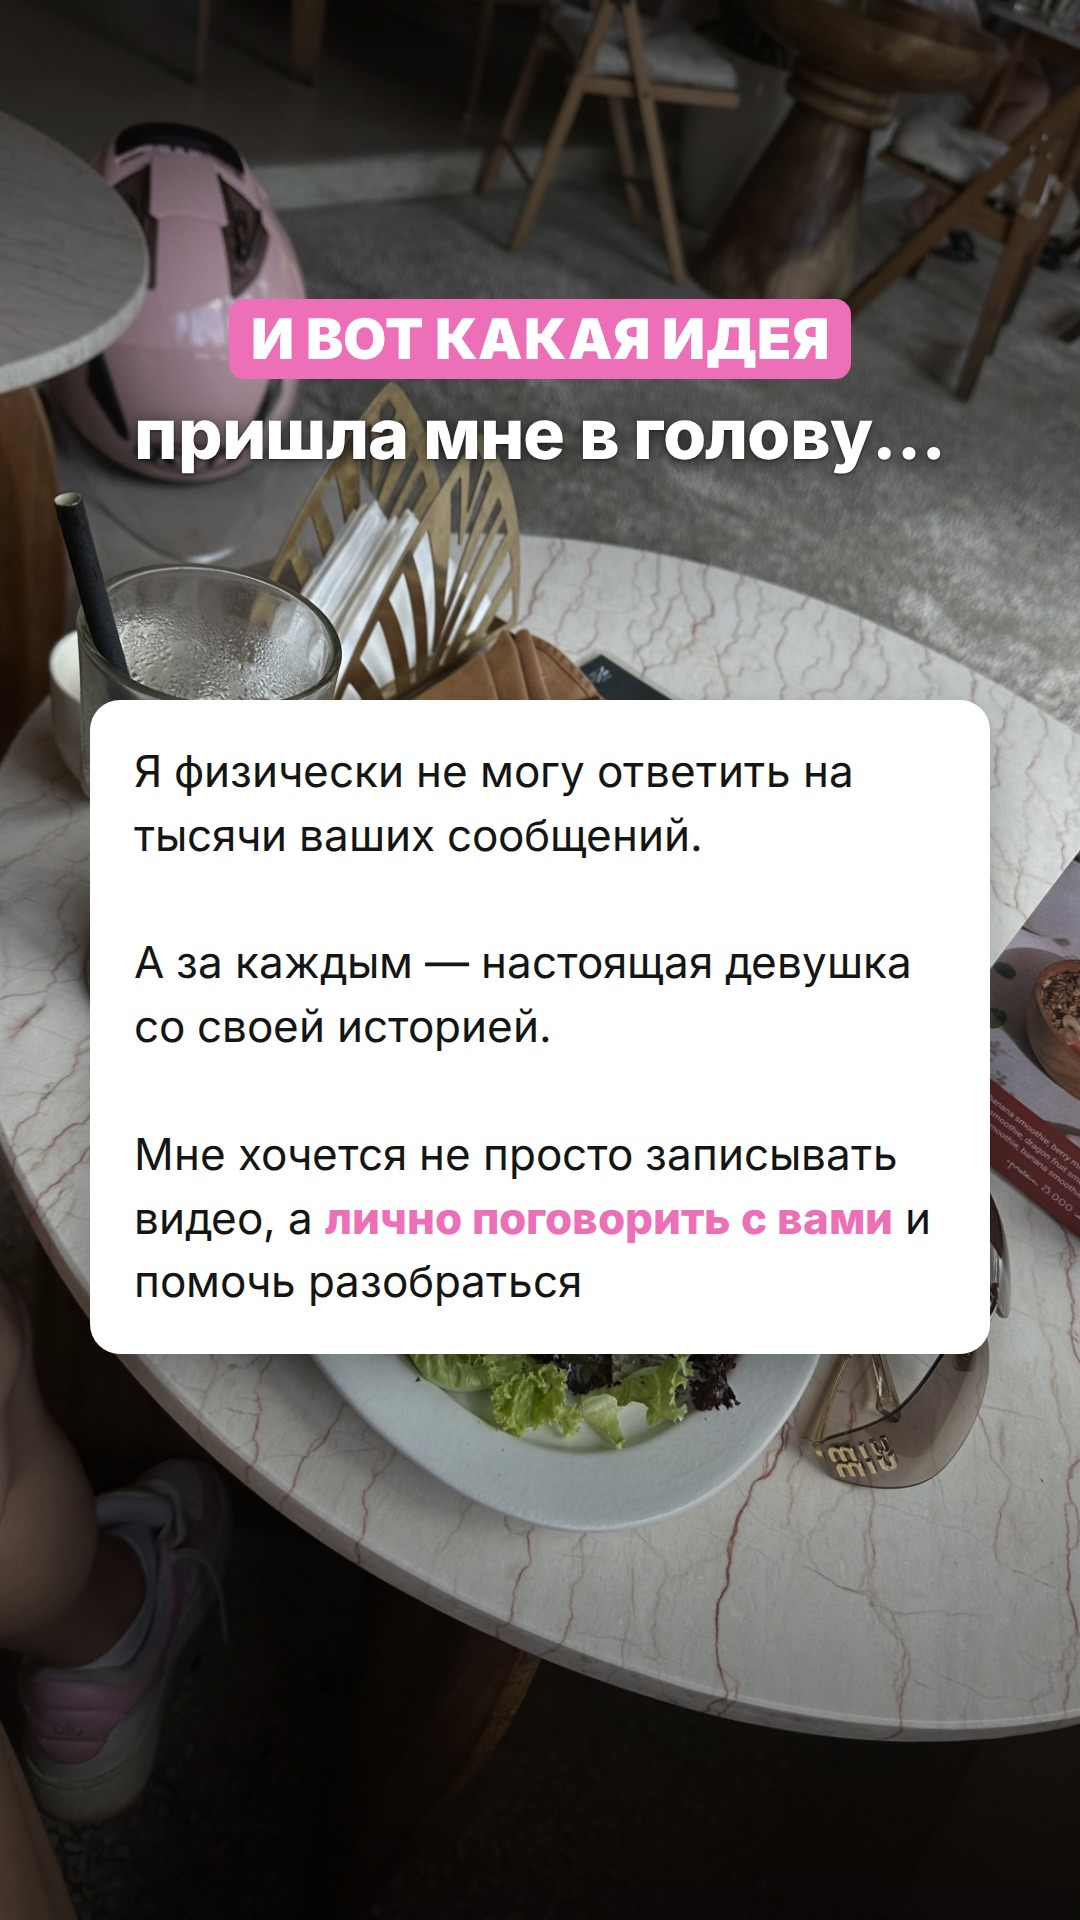
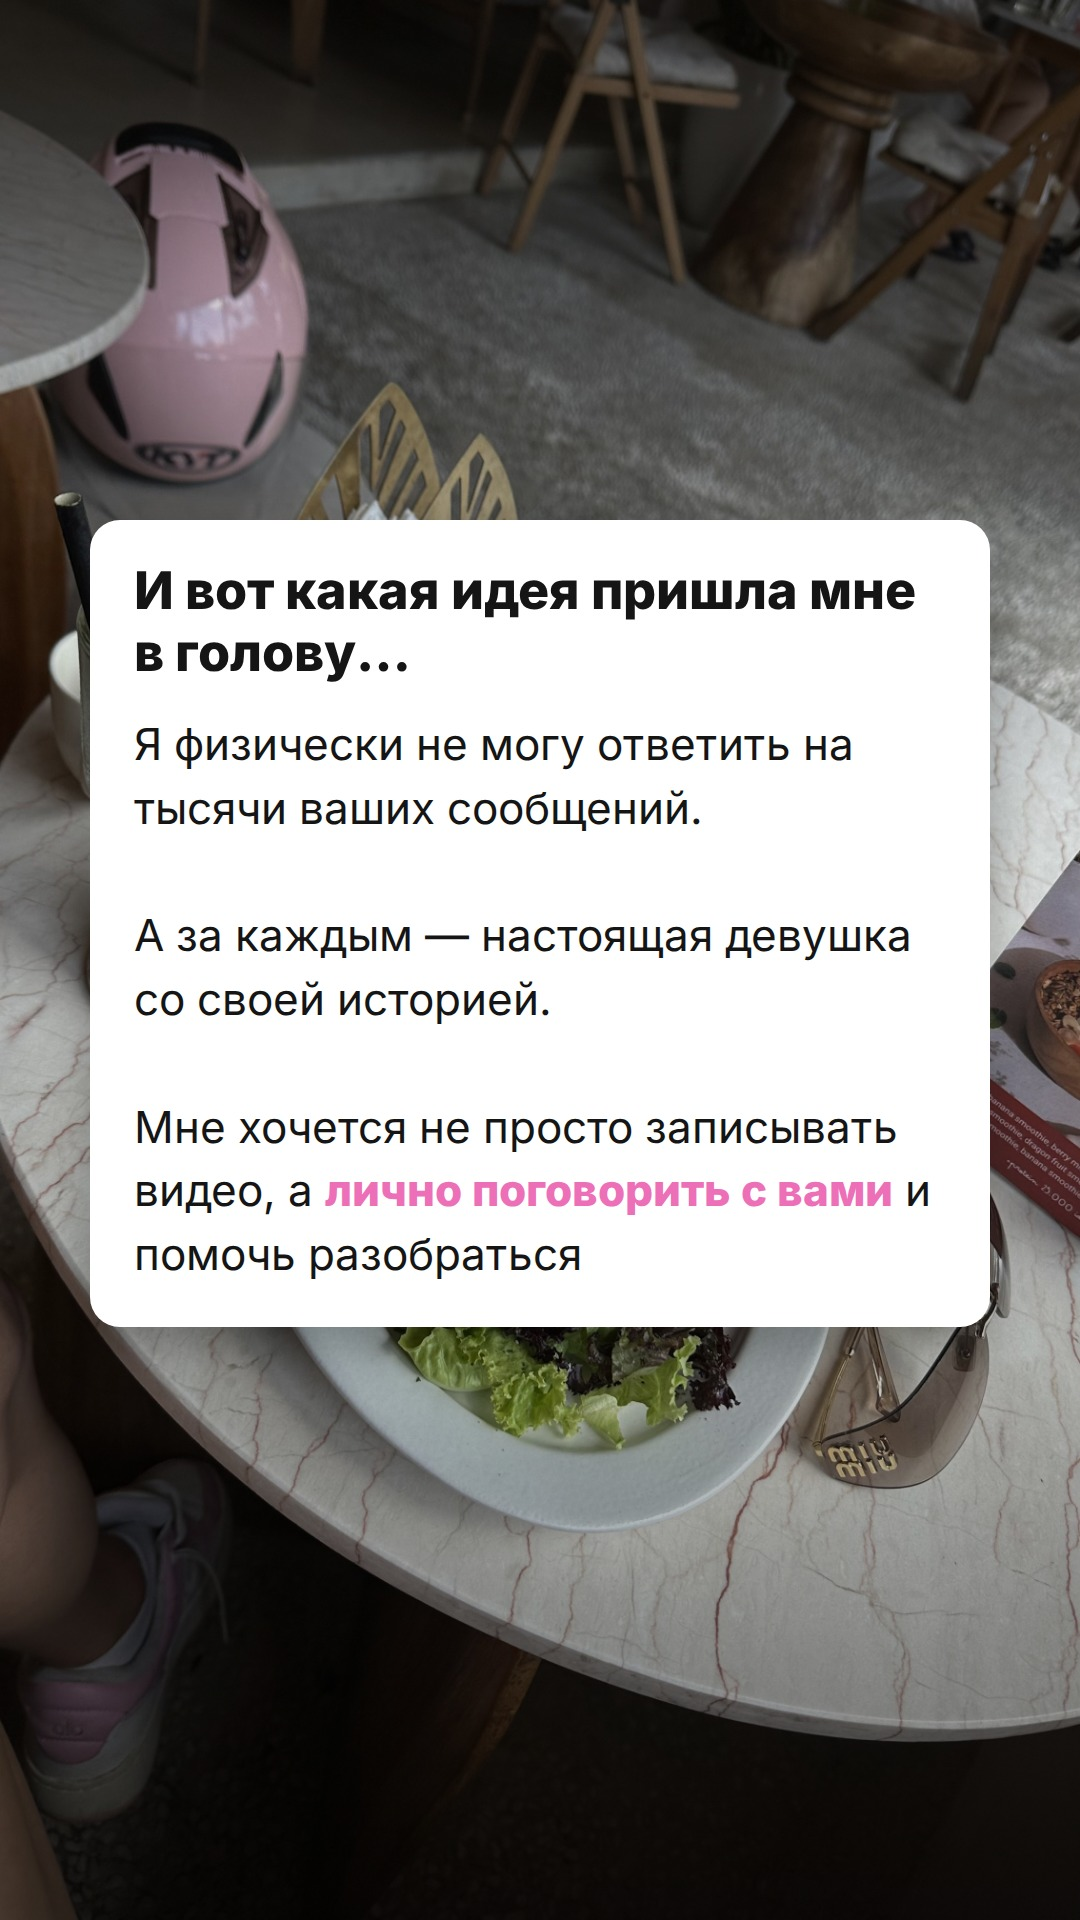
Сторис 7, 8, 11: отзывы выше, сообщения-боль, идея одной заметкой
Claude-Session: https://claude.ai/code/session_01QvxPhZFmoV4wpS6odsdhe8

Changed region(s): [[0.0611, 0.1562, 0.9167, 0.7188]]

diff --git a/guides/src/stories.js b/guides/src/stories.js
@@ -1,5 +1,5 @@
 // v2: одна мысль на сторис, лицо открыто, длинный текст — заметкой на нейтральном фоне
-module.exports = ({ P, W, B, E, I, GAP, p, T, SM, N }) => [
+module.exports = ({ M, P, W, B, E, I, GAP, p, T, SM, N }) => [
   // 1 — лицо в центре, текст сверху и снизу
   { bg:'27.jpg', groups: [
     { top: 170, items: [P('ДЕВОЧКИ, Я В ШОКЕ!!!', 66)] },
@@ -31,12 +31,13 @@ module.exports = ({ P, W, B, E, I, GAP, p, T, SM, N }) => [
   ] },
   // 7 — ради таких сообщений
   { bg:'23.jpg', pos:'50% 80%', groups: [
-    { top: 180, items: [P('ВОТ РАДИ ТАКИХ СООБЩЕНИЙ', 54), T('я и делаю то, что делаю', 64)] },
-    { top: 640, items: [I('s15.JPG', 980, -1.5), GAP(20), I('s11.JPG', 980, 1.2)] },
+    { top: 110, items: [P('ВОТ РАДИ ТАКИХ СООБЩЕНИЙ', 54), T('я и делаю то, что делаю', 64)] },
+    { top: 290, items: [I('s15.JPG', 940, -1.5), GAP(6), I('s11.JPG', 940, 1.2)] },
   ] },
   // 8 — боль
   { bg:'19.jpg', shade:'rgba(0,0,0,.35)', groups: [
-    { top: 620, items: [P('НО ЗНАЕТЕ, ЧТО МЕНЯ ЗАДЕВАЕТ?', 52), GAP(10), W('Сколько девушек прямо сейчас<br>страдают из-за отношений…', 56)] },
+    { top: 260, items: [P('НО ЗНАЕТЕ, ЧТО МЕНЯ ЗАДЕВАЕТ?', 52), GAP(10), W('Сколько девушек прямо сейчас<br>страдают из-за отношений…', 56)] },
+    { top: 820, items: [M('Боже, мне опять попался мудак… я уже не знаю, что со мной не так', -2), M('Как же я устала без отношений', 1.5), M('Мне так страшно остаться одной', -1)] },
   ] },
   // 9 — заметка с фразами
   { bg:'02.jpg', groups: [
@@ -49,8 +50,7 @@ module.exports = ({ P, W, B, E, I, GAP, p, T, SM, N }) => [
   ] },
   // 11 — идея, заметка на размытом фоне
   { bg:'03.jpg', groups: [
-    { top: 300, items: [P('И ВОТ КАКАЯ ИДЕЯ', 56), T('пришла мне в голову…', 70)] },
-    { top: 700, items: [N(`Я физически не могу ответить на тысячи ваших сообщений.<br><br>А за каждым — настоящая девушка со своей историей.<br><br>Мне хочется не просто записывать видео, а <span class=acc>лично поговорить с вами</span> и помочь разобраться`, 44)] },
+    { top: 520, items: [N(`<b style="font-size:52px;line-height:1.2;display:block;margin-bottom:28px">И вот какая идея пришла мне в голову…</b>Я физически не могу ответить на тысячи ваших сообщений.<br><br>А за каждым — настоящая девушка со своей историей.<br><br>Мне хочется не просто записывать видео, а <span class=acc>лично поговорить с вами</span> и помочь разобраться`, 44)] },
   ] },
   // 12 — закрытый девичник
   { bg:'28.jpg', groups: [

diff --git a/guides/src/stories_render.js b/guides/src/stories_render.js
@@ -21,15 +21,17 @@ const GAP = (h = 24) => ({ k: 'gap', h });
 const T = (t, fs = 76) => ({ k: 'txt', t, fs });
 const SM = (t, fs = 40) => ({ k: 'sm', t, fs });
 const N = (t, fs = 40) => ({ k: 'note', t, fs });
+const M = (t, rot = 0, fs = 42) => ({ k: 'msg', t, rot, fs });
 const p = s => `<span class=acc>${s}</span>`;
 
-const stories = require(process.env.ST || './stories.js')({ P, W, D, B, E, I, GAP, p, T, SM, N });
+const stories = require(process.env.ST || './stories.js')({ M, P, W, D, B, E, I, GAP, p, T, SM, N });
 
 function item(it) {
   if (it.k === 'gap') return `<div style="height:${it.h}px"></div>`;
   if (it.k === 'img') return `<img class=shot src="file://${C}${it.src}" style="width:${it.w}px;transform:rotate(${it.rot}deg)">`;
   if (it.k === 'txt') return `<div class=txt style="font-size:${it.fs}px">${it.t}</div>`;
   if (it.k === 'sm') return `<div class=sm style="font-size:${it.fs}px">${it.t}</div>`;
+  if (it.k === 'msg') return `<div class=msg style="font-size:${it.fs}px;transform:rotate(${it.rot}deg)">${it.t}</div>`;
   if (it.k === 'note') return `<div class=note style="font-size:${it.fs}px">${it.t}</div>`;
   if (it.k === 'emoji') return `<div class=emoji style="font-size:${it.fs}px">${it.t}</div>`;
   if (it.k === 'big') return `<div class=big style="font-size:${it.fs}px">${it.t}</div>`;
@@ -60,6 +62,8 @@ body{width:1080px;height:1920px;overflow:hidden;background:#111;font-family:I,'N
 .sm{font-weight:700;color:#fff;line-height:1.3;text-shadow:0 2px 12px rgba(0,0,0,.6),0 1px 3px rgba(0,0,0,.5)}
 .txt .acc,.sm .acc{color:#ff8fcf}
 .note{background:#fff;color:#151515;border-radius:30px;padding:40px 44px;text-align:left;font-weight:400;line-height:1.45;width:900px;box-shadow:0 18px 50px rgba(0,0,0,.3)}
+.msg{background:#fff;color:#151515;border-radius:34px 34px 34px 8px;padding:26px 36px;text-align:left;font-weight:400;line-height:1.35;max-width:880px;align-self:flex-start;margin:6px 20px;box-shadow:0 14px 40px rgba(0,0,0,.35)}
+.msg:nth-child(even){align-self:flex-end;border-radius:34px 34px 8px 34px}
 .note b{font-weight:800}
 .note .acc{font-weight:800}
 .lblw{display:inline-block}
